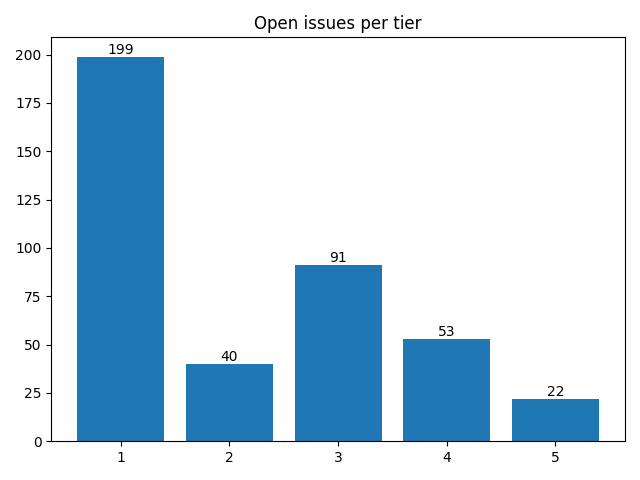
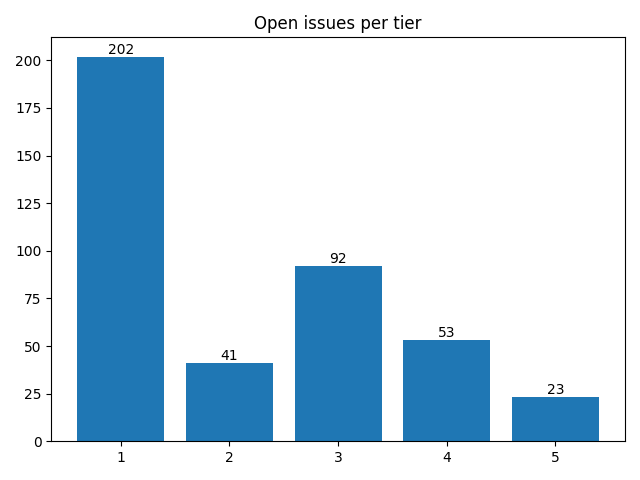
Apply automatic changes

diff --git a/docs/analytics.html b/docs/analytics.html
@@ -89,8 +89,8 @@ td .material-icons { display:inline-flex; vertical-align: top; font-size:1.1rem;
 						</tr>
 						<tr>
 							<td>May</td>
-							<td>0</td>
-							<td>0</td>
+							<td>7</td>
+							<td>1</td>
 						</tr>
 					</table>
 				</div>
@@ -110,7 +110,7 @@ td .material-icons { display:inline-flex; vertical-align: top; font-size:1.1rem;
 							<td>
 								<a href="http://github.com/notofonts/latin-greek-cyrillic/issues">latin-greek-cyrillic</a>
 							</td>
-							<td>125</td>
+							<td>126</td>
 						</tr>
 						<tr>
 							<td>
@@ -126,15 +126,15 @@ td .material-icons { display:inline-flex; vertical-align: top; font-size:1.1rem;
 						</tr>
 						<tr>
 							<td>
-								<a href="http://github.com/notofonts/nastaliq/issues">nastaliq</a>
+								<a href="http://github.com/notofonts/hebrew/issues">hebrew</a>
 							</td>
 							<td>11</td>
 						</tr>
 						<tr>
 							<td>
-								<a href="http://github.com/notofonts/hebrew/issues">hebrew</a>
+								<a href="http://github.com/notofonts/nastaliq/issues">nastaliq</a>
 							</td>
-							<td>10</td>
+							<td>11</td>
 						</tr>
 						<tr>
 							<td>
@@ -156,13 +156,13 @@ td .material-icons { display:inline-flex; vertical-align: top; font-size:1.1rem;
 						</tr>
 						<tr>
 							<td>
-								<a href="http://github.com/notofonts/devanagari/issues">devanagari</a>
+								<a href="http://github.com/notofonts/syriac/issues">syriac</a>
 							</td>
-							<td>7</td>
+							<td>8</td>
 						</tr>
 						<tr>
 							<td>
-								<a href="http://github.com/notofonts/kaithi/issues">kaithi</a>
+								<a href="http://github.com/notofonts/devanagari/issues">devanagari</a>
 							</td>
 							<td>7</td>
 						</tr>
@@ -181,19 +181,19 @@ td .material-icons { display:inline-flex; vertical-align: top; font-size:1.1rem;
 				<tr>
 					<td>1</td>
 					<td>
-						<a href="http://github.com/notofonts/armenian/issues">armenian</a>,  						<a href="http://github.com/notofonts/bamum/issues">bamum</a>,  						<a href="http://github.com/notofonts/canadian-aboriginal/issues">canadian-aboriginal</a>,  						<a href="http://github.com/notofonts/chakma/issues">chakma</a>,  						<a href="http://github.com/notofonts/chorasmian/issues">chorasmian</a>,  						<a href="http://github.com/notofonts/cuneiform/issues">cuneiform</a>,  						<a href="http://github.com/notofonts/deseret/issues">deseret</a>,  						<a href="http://github.com/notofonts/dogra/issues">dogra</a>,  						<a href="http://github.com/notofonts/duployan/issues">duployan</a>,  						<a href="http://github.com/notofonts/elbasan/issues">elbasan</a>,  						<a href="http://github.com/notofonts/ethiopic/issues">ethiopic</a>,  						<a href="http://github.com/notofonts/hanunoo/issues">hanunoo</a>,  						<a href="http://github.com/notofonts/kharoshthi/issues">kharoshthi</a>,  						<a href="http://github.com/notofonts/khitan-small-script/issues">khitan-small-script</a>,  						<a href="http://github.com/notofonts/khudawadi/issues">khudawadi</a>,  						<a href="http://github.com/notofonts/lydian/issues">lydian</a>,  						<a href="http://github.com/notofonts/meetei-mayek/issues">meetei-mayek</a>,  						<a href="http://github.com/notofonts/miao/issues">miao</a>,  						<a href="http://github.com/notofonts/mongolian/issues">mongolian</a>,  						<a href="http://github.com/notofonts/multani/issues">multani</a>,  						<a href="http://github.com/notofonts/music/issues">music</a>,  						<a href="http://github.com/notofonts/nko/issues">nko</a>,  						<a href="http://github.com/notofonts/old-italic/issues">old-italic</a>,  						<a href="http://github.com/notofonts/old-turkic/issues">old-turkic</a>,  						<a href="http://github.com/notofonts/oriya/issues">oriya</a>,  						<a href="http://github.com/notofonts/pahawh-hmong/issues">pahawh-hmong</a>,  						<a href="http://github.com/notofonts/phags-pa/issues">phags-pa</a>,  						<a href="http://github.com/notofonts/rejang/issues">rejang</a>,  						<a href="http://github.com/notofonts/saurashtra/issues">saurashtra</a>,  						<a href="http://github.com/notofonts/sogdian/issues">sogdian</a>,  						<a href="http://github.com/notofonts/sundanese/issues">sundanese</a>,  						<a href="http://github.com/notofonts/tai-le/issues">tai-le</a>,  						<a href="http://github.com/notofonts/tai-tham/issues">tai-tham</a>,  						<a href="http://github.com/notofonts/takri/issues">takri</a>,  						<a href="http://github.com/notofonts/tangsa/issues">tangsa</a>,  						<a href="http://github.com/notofonts/tangut/issues">tangut</a> 
+						<a href="http://github.com/notofonts/bamum/issues">bamum</a>,  						<a href="http://github.com/notofonts/canadian-aboriginal/issues">canadian-aboriginal</a>,  						<a href="http://github.com/notofonts/chakma/issues">chakma</a>,  						<a href="http://github.com/notofonts/chorasmian/issues">chorasmian</a>,  						<a href="http://github.com/notofonts/cuneiform/issues">cuneiform</a>,  						<a href="http://github.com/notofonts/deseret/issues">deseret</a>,  						<a href="http://github.com/notofonts/dogra/issues">dogra</a>,  						<a href="http://github.com/notofonts/duployan/issues">duployan</a>,  						<a href="http://github.com/notofonts/elbasan/issues">elbasan</a>,  						<a href="http://github.com/notofonts/ethiopic/issues">ethiopic</a>,  						<a href="http://github.com/notofonts/hanunoo/issues">hanunoo</a>,  						<a href="http://github.com/notofonts/kharoshthi/issues">kharoshthi</a>,  						<a href="http://github.com/notofonts/khitan-small-script/issues">khitan-small-script</a>,  						<a href="http://github.com/notofonts/khudawadi/issues">khudawadi</a>,  						<a href="http://github.com/notofonts/lydian/issues">lydian</a>,  						<a href="http://github.com/notofonts/meetei-mayek/issues">meetei-mayek</a>,  						<a href="http://github.com/notofonts/miao/issues">miao</a>,  						<a href="http://github.com/notofonts/mongolian/issues">mongolian</a>,  						<a href="http://github.com/notofonts/multani/issues">multani</a>,  						<a href="http://github.com/notofonts/music/issues">music</a>,  						<a href="http://github.com/notofonts/nko/issues">nko</a>,  						<a href="http://github.com/notofonts/old-turkic/issues">old-turkic</a>,  						<a href="http://github.com/notofonts/oriya/issues">oriya</a>,  						<a href="http://github.com/notofonts/pahawh-hmong/issues">pahawh-hmong</a>,  						<a href="http://github.com/notofonts/phags-pa/issues">phags-pa</a>,  						<a href="http://github.com/notofonts/rejang/issues">rejang</a>,  						<a href="http://github.com/notofonts/saurashtra/issues">saurashtra</a>,  						<a href="http://github.com/notofonts/sogdian/issues">sogdian</a>,  						<a href="http://github.com/notofonts/sundanese/issues">sundanese</a>,  						<a href="http://github.com/notofonts/tai-le/issues">tai-le</a>,  						<a href="http://github.com/notofonts/tai-tham/issues">tai-tham</a>,  						<a href="http://github.com/notofonts/takri/issues">takri</a>,  						<a href="http://github.com/notofonts/tangsa/issues">tangsa</a>,  						<a href="http://github.com/notofonts/tangut/issues">tangut</a> 
 					</td>
 				</tr>
 				<tr>
 					<td>2</td>
 					<td>
-						<a href="http://github.com/notofonts/brahmi/issues">brahmi</a>,  						<a href="http://github.com/notofonts/coptic/issues">coptic</a>,  						<a href="http://github.com/notofonts/georgian/issues">georgian</a>,  						<a href="http://github.com/notofonts/glagolitic/issues">glagolitic</a>,  						<a href="http://github.com/notofonts/grantha/issues">grantha</a>,  						<a href="http://github.com/notofonts/old-hungarian-ui/issues">old-hungarian-ui</a>,  						<a href="http://github.com/notofonts/sign-writing/issues">sign-writing</a>,  						<a href="http://github.com/notofonts/tagalog/issues">tagalog</a>,  						<a href="http://github.com/notofonts/tamil/issues">tamil</a> 
+						<a href="http://github.com/notofonts/armenian/issues">armenian</a>,  						<a href="http://github.com/notofonts/brahmi/issues">brahmi</a>,  						<a href="http://github.com/notofonts/coptic/issues">coptic</a>,  						<a href="http://github.com/notofonts/glagolitic/issues">glagolitic</a>,  						<a href="http://github.com/notofonts/grantha/issues">grantha</a>,  						<a href="http://github.com/notofonts/old-hungarian-ui/issues">old-hungarian-ui</a>,  						<a href="http://github.com/notofonts/old-italic/issues">old-italic</a>,  						<a href="http://github.com/notofonts/sign-writing/issues">sign-writing</a>,  						<a href="http://github.com/notofonts/tagalog/issues">tagalog</a>,  						<a href="http://github.com/notofonts/tamil/issues">tamil</a> 
 					</td>
 				</tr>
 				<tr>
 					<td>3</td>
 					<td>
-						<a href="http://github.com/notofonts/ahom/issues">ahom</a>,  						<a href="http://github.com/notofonts/balinese/issues">balinese</a>,  						<a href="http://github.com/notofonts/khojki/issues">khojki</a>,  						<a href="http://github.com/notofonts/manichaean/issues">manichaean</a>,  						<a href="http://github.com/notofonts/nandinagari/issues">nandinagari</a>,  						<a href="http://github.com/notofonts/sharada/issues">sharada</a>,  						<a href="http://github.com/notofonts/siddham/issues">siddham</a>,  						<a href="http://github.com/notofonts/telugu/issues">telugu</a>,  						<a href="http://github.com/notofonts/thai/issues">thai</a>,  						<a href="http://github.com/notofonts/tifinagh/issues">tifinagh</a> 
+						<a href="http://github.com/notofonts/ahom/issues">ahom</a>,  						<a href="http://github.com/notofonts/balinese/issues">balinese</a>,  						<a href="http://github.com/notofonts/georgian/issues">georgian</a>,  						<a href="http://github.com/notofonts/khojki/issues">khojki</a>,  						<a href="http://github.com/notofonts/manichaean/issues">manichaean</a>,  						<a href="http://github.com/notofonts/nandinagari/issues">nandinagari</a>,  						<a href="http://github.com/notofonts/sharada/issues">sharada</a>,  						<a href="http://github.com/notofonts/siddham/issues">siddham</a>,  						<a href="http://github.com/notofonts/telugu/issues">telugu</a>,  						<a href="http://github.com/notofonts/thai/issues">thai</a>,  						<a href="http://github.com/notofonts/tifinagh/issues">tifinagh</a> 
 					</td>
 				</tr>
 				<tr>
@@ -217,7 +217,13 @@ td .material-icons { display:inline-flex; vertical-align: top; font-size:1.1rem;
 				<tr>
 					<td>7</td>
 					<td>
-						<a href="http://github.com/notofonts/devanagari/issues">devanagari</a>,  						<a href="http://github.com/notofonts/kaithi/issues">kaithi</a>,  						<a href="http://github.com/notofonts/kannada/issues">kannada</a>,  						<a href="http://github.com/notofonts/malayalam/issues">malayalam</a>,  						<a href="http://github.com/notofonts/syriac/issues">syriac</a> 
+						<a href="http://github.com/notofonts/devanagari/issues">devanagari</a>,  						<a href="http://github.com/notofonts/kaithi/issues">kaithi</a>,  						<a href="http://github.com/notofonts/kannada/issues">kannada</a>,  						<a href="http://github.com/notofonts/malayalam/issues">malayalam</a> 
+					</td>
+				</tr>
+				<tr>
+					<td>8</td>
+					<td>
+						<a href="http://github.com/notofonts/syriac/issues">syriac</a> 
 					</td>
 				</tr>
 				<tr>
@@ -229,7 +235,7 @@ td .material-icons { display:inline-flex; vertical-align: top; font-size:1.1rem;
 				<tr>
 					<td>10</td>
 					<td>
-						<a href="http://github.com/notofonts/hebrew/issues">hebrew</a>,  						<a href="http://github.com/notofonts/tirhuta/issues">tirhuta</a> 
+						<a href="http://github.com/notofonts/tirhuta/issues">tirhuta</a> 
 					</td>
 				</tr>
 			</table>
@@ -244,11 +250,11 @@ td .material-icons { display:inline-flex; vertical-align: top; font-size:1.1rem;
 						<tr>
 							<td>1</td>
 							<td>
-									<a href="http://github.com/notofonts/latin-greek-cyrillic/issues">latin-greek-cyrillic</a>: 125, 
+									<a href="http://github.com/notofonts/latin-greek-cyrillic/issues">latin-greek-cyrillic</a>: 126, 
+
+									<a href="http://github.com/notofonts/hebrew/issues">hebrew</a>: 11, 
 
 									<a href="http://github.com/notofonts/nastaliq/issues">nastaliq</a>: 11, 
-
-									<a href="http://github.com/notofonts/hebrew/issues">hebrew</a>: 10, 
 
 									<a href="http://github.com/notofonts/arabic/issues">arabic</a>: 9, 
 
@@ -266,9 +272,9 @@ td .material-icons { display:inline-flex; vertical-align: top; font-size:1.1rem;
 
 									<a href="http://github.com/notofonts/telugu/issues">telugu</a>: 3, 
 
-									<a href="http://github.com/notofonts/tamil/issues">tamil</a>: 2, 
+									<a href="http://github.com/notofonts/armenian/issues">armenian</a>: 2, 
 
-									<a href="http://github.com/notofonts/armenian/issues">armenian</a>: 1, 
+									<a href="http://github.com/notofonts/tamil/issues">tamil</a>: 2, 
 
 									<a href="http://github.com/notofonts/oriya/issues">oriya</a>: 1
 							</td>
@@ -280,9 +286,9 @@ td .material-icons { display:inline-flex; vertical-align: top; font-size:1.1rem;
 
 									<a href="http://github.com/notofonts/balinese/issues">balinese</a>: 3, 
 
-									<a href="http://github.com/notofonts/thai/issues">thai</a>: 3, 
+									<a href="http://github.com/notofonts/georgian/issues">georgian</a>: 3, 
 
-									<a href="http://github.com/notofonts/georgian/issues">georgian</a>: 2, 
+									<a href="http://github.com/notofonts/thai/issues">thai</a>: 3, 
 
 									<a href="http://github.com/notofonts/ethiopic/issues">ethiopic</a>: 1
 							</td>
@@ -294,7 +300,7 @@ td .material-icons { display:inline-flex; vertical-align: top; font-size:1.1rem;
 
 									<a href="http://github.com/notofonts/math/issues">math</a>: 9, 
 
-									<a href="http://github.com/notofonts/syriac/issues">syriac</a>: 7, 
+									<a href="http://github.com/notofonts/syriac/issues">syriac</a>: 8, 
 
 									<a href="http://github.com/notofonts/modi/issues">modi</a>: 6, 
 
@@ -408,6 +414,8 @@ td .material-icons { display:inline-flex; vertical-align: top; font-size:1.1rem;
 
 									<a href="http://github.com/notofonts/nandinagari/issues">nandinagari</a>: 3, 
 
+									<a href="http://github.com/notofonts/old-italic/issues">old-italic</a>: 2, 
+
 									<a href="http://github.com/notofonts/chorasmian/issues">chorasmian</a>: 1, 
 
 									<a href="http://github.com/notofonts/elbasan/issues">elbasan</a>: 1, 
@@ -415,8 +423,6 @@ td .material-icons { display:inline-flex; vertical-align: top; font-size:1.1rem;
 									<a href="http://github.com/notofonts/kharoshthi/issues">kharoshthi</a>: 1, 
 
 									<a href="http://github.com/notofonts/khitan-small-script/issues">khitan-small-script</a>: 1, 
-
-									<a href="http://github.com/notofonts/old-italic/issues">old-italic</a>: 1, 
 
 									<a href="http://github.com/notofonts/old-turkic/issues">old-turkic</a>: 1, 
 
